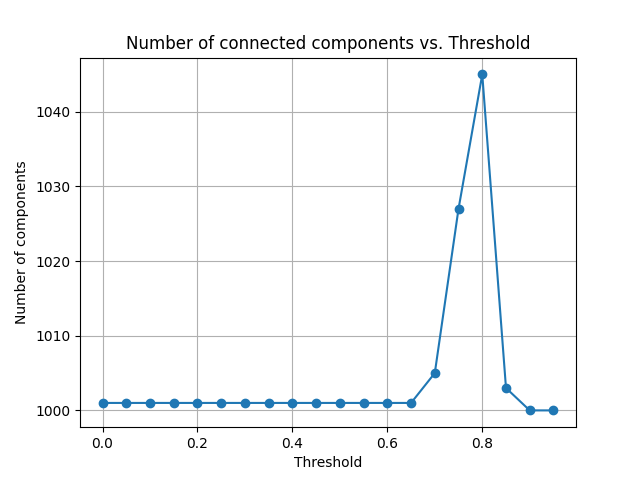
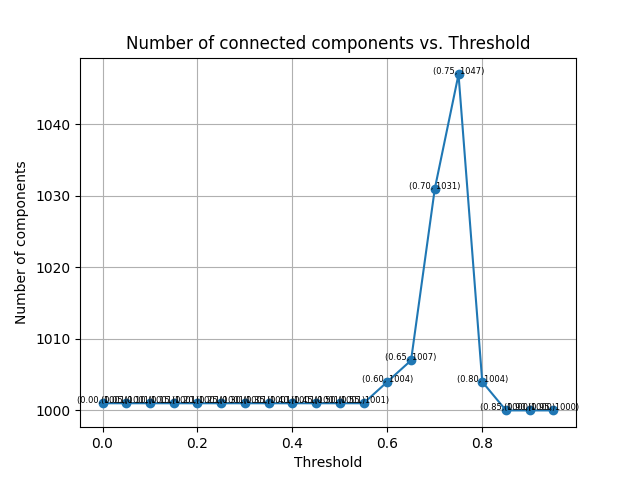
new number of components over the threshold plot (using the reduced to 1000 points dataset)

Changed region(s): [[0.0625, 0.125, 0.9062, 0.875], [0.0625, 0.375, 0.125, 0.4375], [0.0625, 0.2188, 0.125, 0.2812]]

diff --git a/main.py b/main.py
@@ -13,16 +13,16 @@ data = load_dataset_csv("./dataset/EU_travel_survey_demand_innovative_transport_
 data = filter_by(data, "Country", "Italy", number_of_rows=1000)
 # saved the filtered data in the filtered.csv file
 data.to_csv(path_or_buf="./dataset/filtered.csv")
-print(data.columns)
-complete_data = data
-for column in data.columns:
-    removed_data = remove_all_except_for(data,[column])
-    graph = create_network(removed_data, similarity_threshold=SIMILARITY_THRESHOLD, name=f"Network with only {column}")
-    plot_network(graph)
-    data = complete_data
+# print(data.columns)
+# complete_data = data
+# for column in data.columns:
+#     removed_data = remove_all_except_for(data,[column])
+#     graph = create_network(removed_data, similarity_threshold=SIMILARITY_THRESHOLD, name=f"Network with only {column}")
+#     plot_network(graph)
+#     data = complete_data
 
 
-#components_over_threshold(data)
+components_over_threshold(data)
 # graph = create_network(data, similarity_threshold=SIMILARITY_THRESHOLD, name="Travel Survey Gower's similarity network")
 # plot_network(graph)
 #simulate(graph)

diff --git a/statistics.py b/statistics.py
@@ -21,13 +21,15 @@ def components_over_threshold(df: DataFrame):
     from network_building import create_network
     print("Plotting number of components over the threshold values...")
     components = []
-    thresholds= np.arange(0, 1.0, 0.05)
+    thresholds = np.arange(0, 1.0, 0.05)
     for threshold in thresholds:
         graph = create_network(df, similarity_threshold=threshold, no_logs=True)
         components.append(number_connected_components(graph))
 
     plt.figure()
     plt.plot(thresholds, components, marker='o')
+    for i, _ in enumerate(components):
+        plt.text(thresholds[i], components[i], f"({thresholds[i]:.2f}, {components[i]})", fontsize=6, ha='center')
     plt.xlabel('Threshold')
     plt.ylabel('Number of components')
     plt.title('Number of connected components vs. Threshold')
